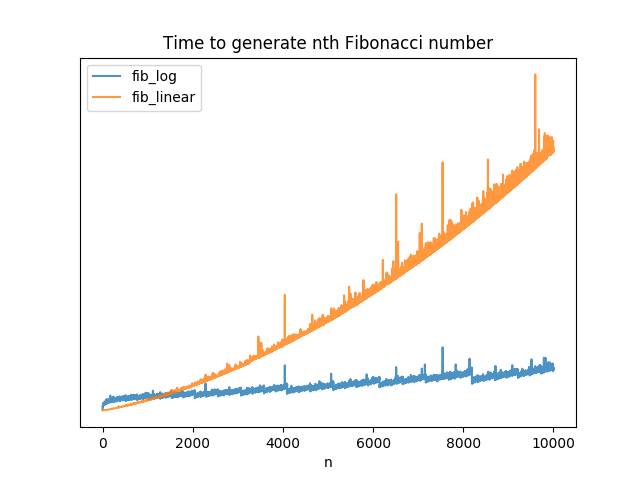
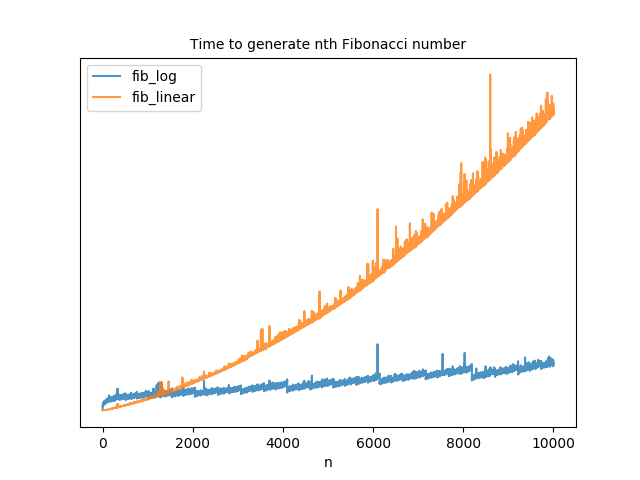
Smaller fontsize for plot titles

Changed region(s): [[0.1562, 0.1562, 0.875, 0.8438], [0.25, 0.0625, 0.7812, 0.125]]

diff --git a/timing.py b/timing.py
@@ -19,6 +19,6 @@ plt.plot(times, alpha=.8)
 plt.axes().get_yaxis().set_visible(False)
 plt.xlabel('n')
 plt.legend(['fib_log', 'fib_linear'])
-plt.title('Time to generate nth Fibonacci number')
+plt.title('Time to generate nth Fibonacci number', fontsize=10)
 plt.savefig('plot.png')
 print 'done'
